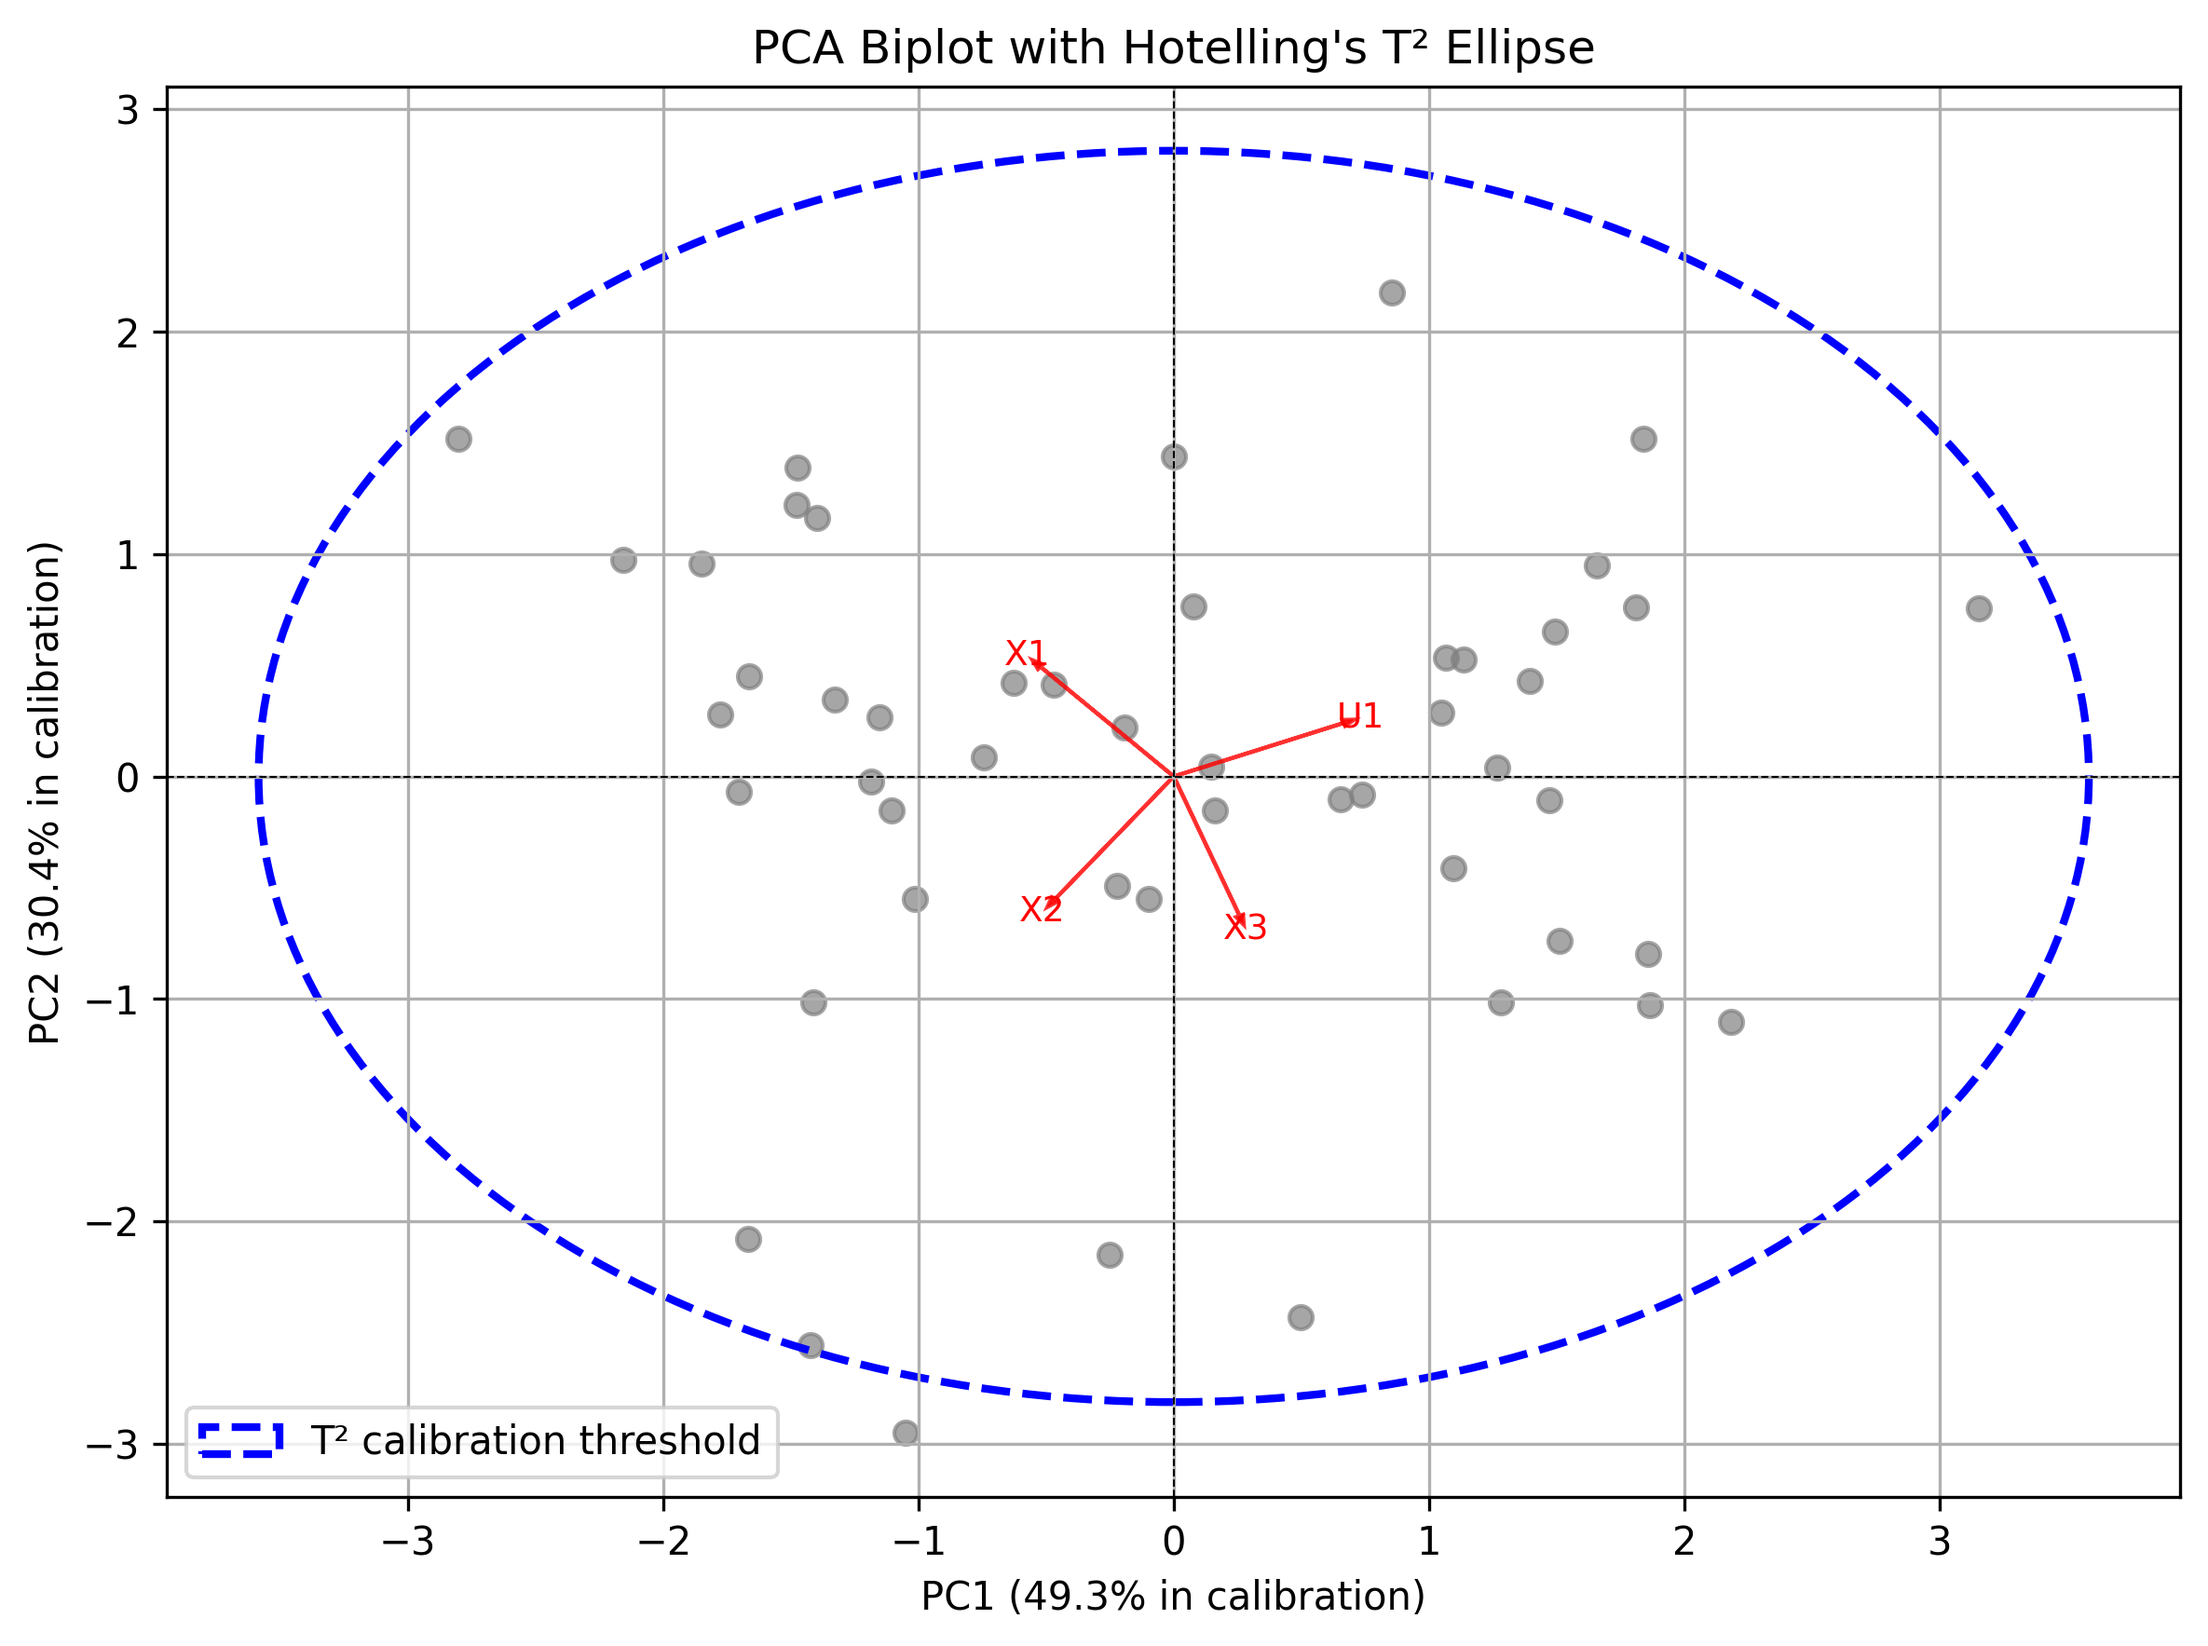
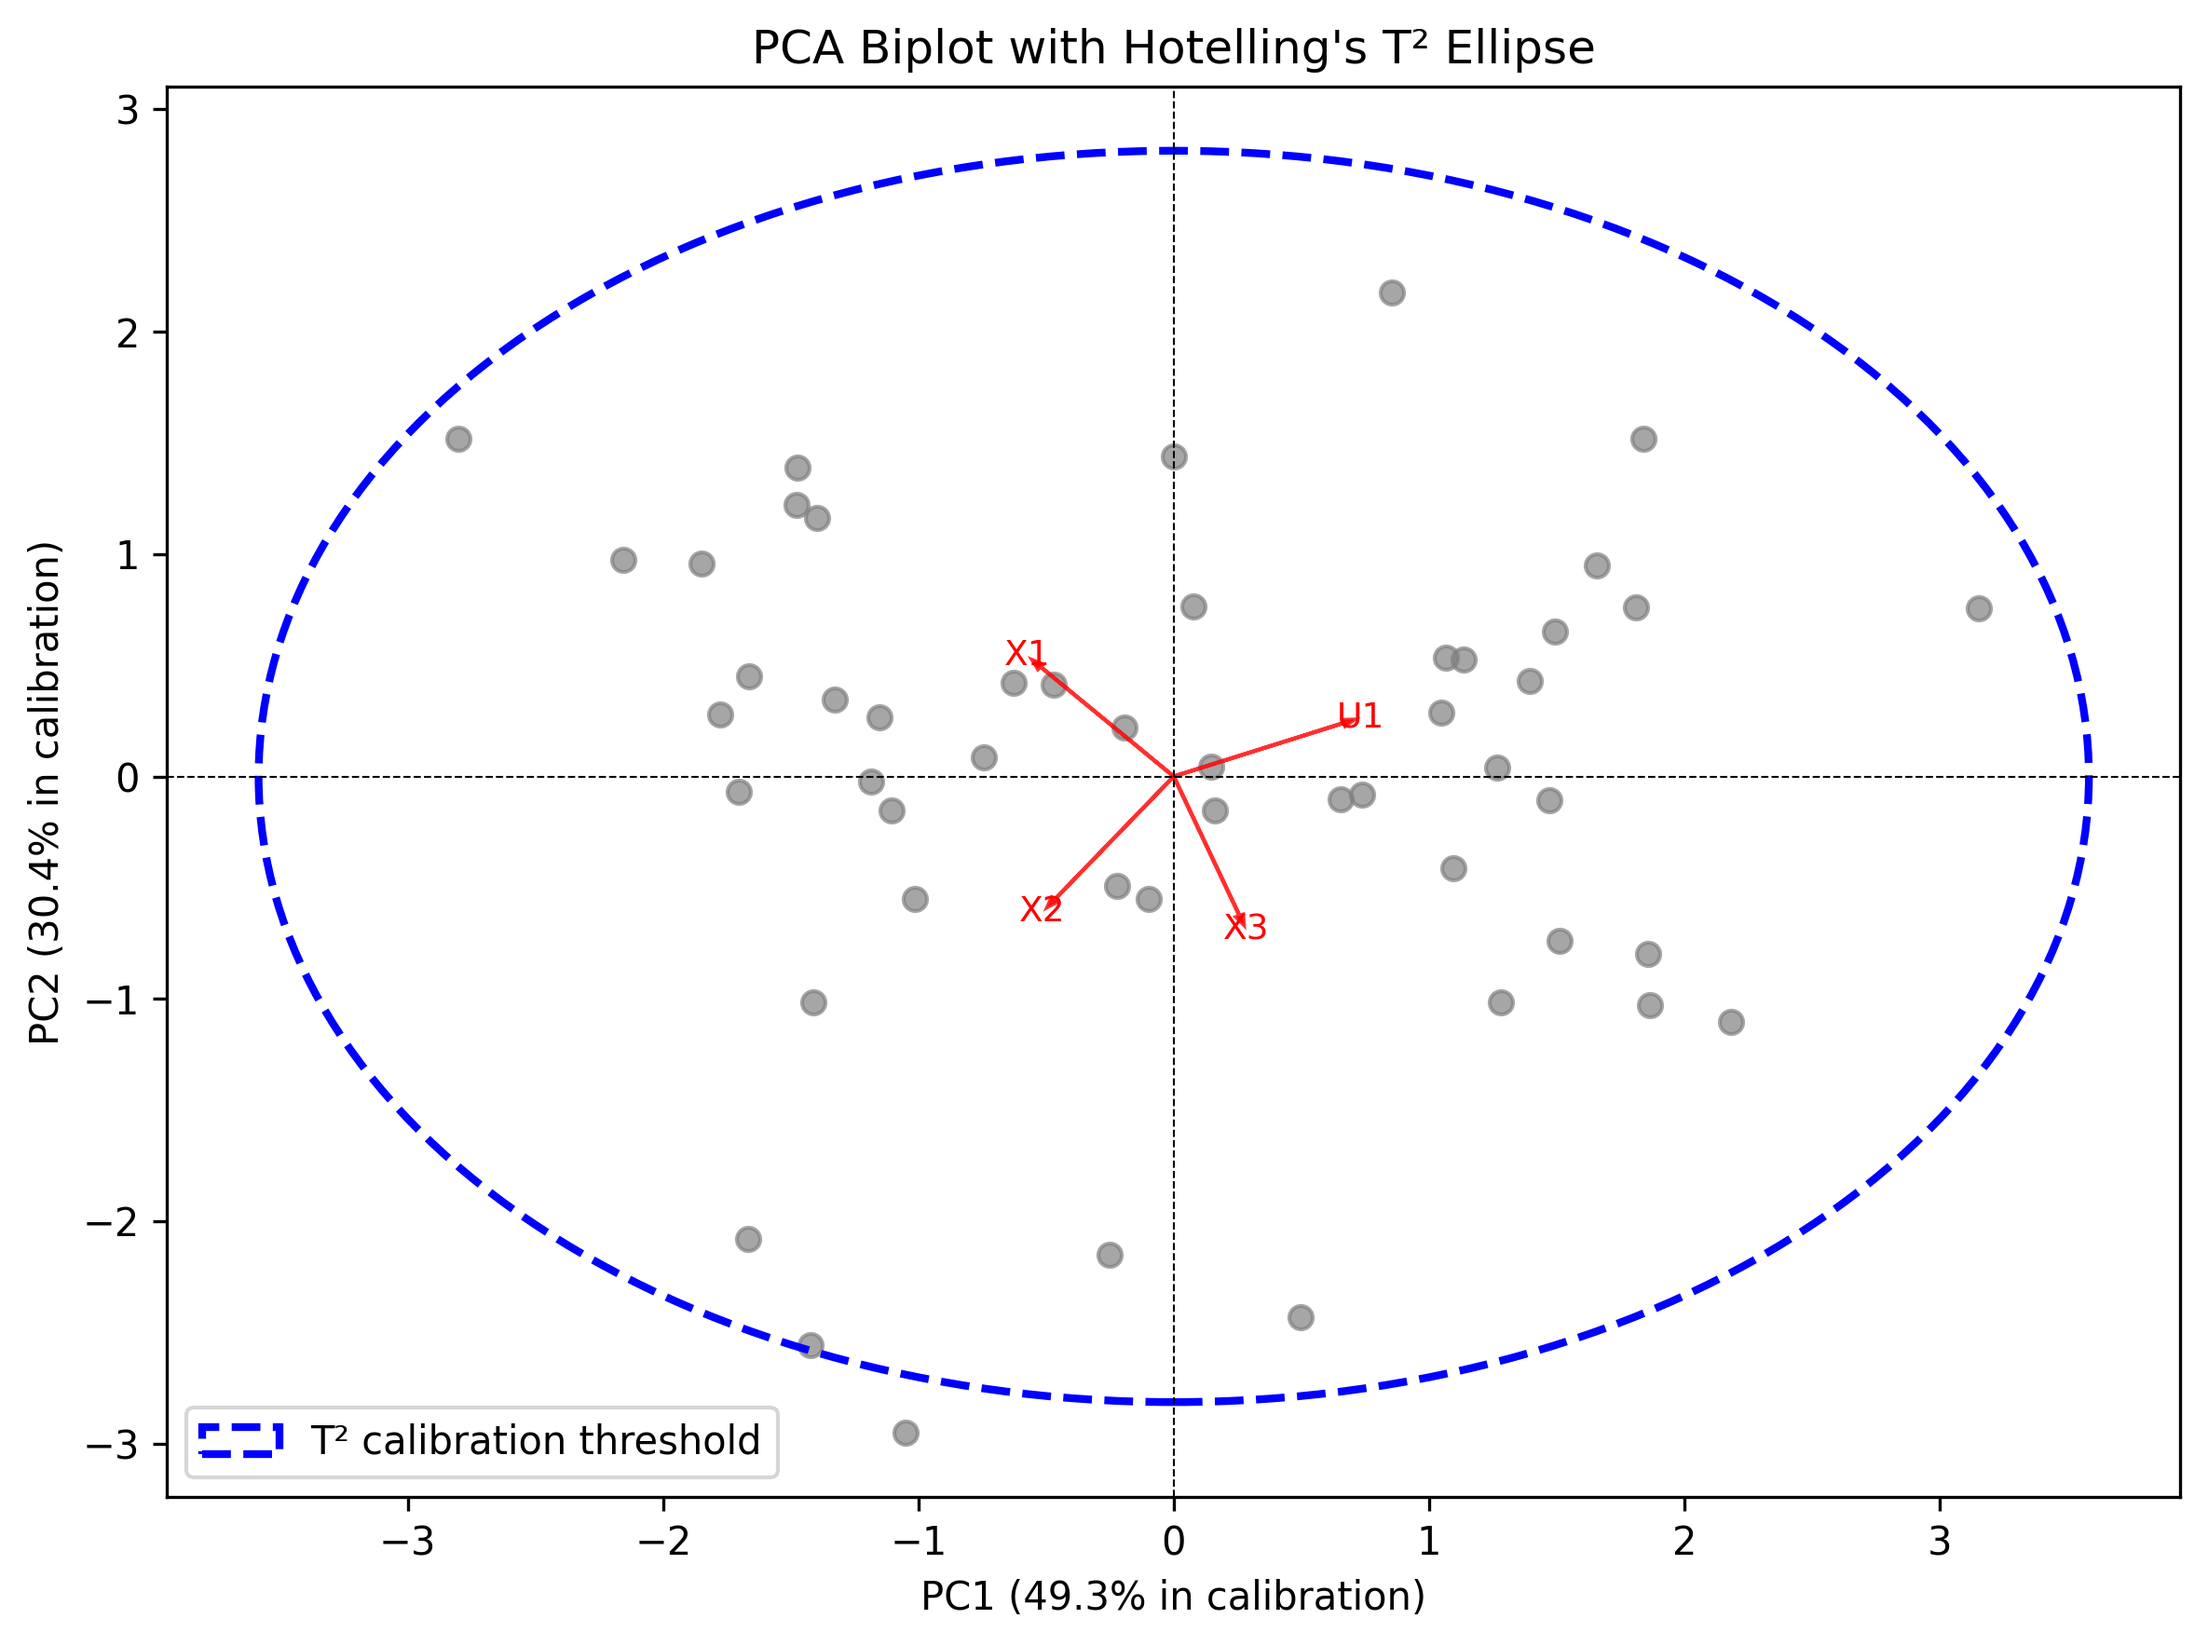
removed grids

diff --git a/examples/PLSR_soft_sensor_example.py b/examples/PLSR_soft_sensor_example.py
@@ -512,8 +512,6 @@ calibration_T2, calibration_Q = compute_PLS_t2_q(data = X_calibration_autoscaled
 #print("calibration_Q : ", calibration_Q)
 
 n = X_calibration_autoscaled.shape[0]
-m_of_all_columns = X_calibration_autoscaled.shape[1]
-T_calibration_all_latent_variables, U_calibration_all_latent_variables, P_calibration_all_latent_variables, Q_calibration_all_latent_variables, W_calibration_all_latent_variables, B_calibration_all_latent_variables, W_star_calibration_all_latent_variables = pls_nipals(X_calibration_autoscaled, y_calibration_autoscaled, n_components=m_of_all_columns)
 
 calibration_T2_thresh = hotelling_t2_threshold(n_samples = n, n_components = n_components)
 
@@ -587,7 +585,7 @@ def q_residual_threshold_PLS(X, T, P, alpha=0.95):
 
 
 
-#calibration_Q_thresh = q_residual_threshold_PLS(scores_T = T_calibration_all_latent_variables, n_components = n_components) # we give all scores T inputs (the threshold needs unused latent variable scores) but we give the selected components i.e. first 2
+
 calibration_Q_thresh = q_residual_threshold_PLS(X_calibration_autoscaled, T_calibration, P_calibration, alpha=0.95)
 
 
@@ -620,7 +618,7 @@ def plot_t2_q(T2, Q, threshold_T2=None, threshold_Q=None, name=""):
     axs[1].set_title("Q Residuals (SPE)")
     axs[1].set_xlabel("Sample Index")
     axs[1].set_ylabel("Q")
-    axs[1].grid(True)
+    axs[1].grid(False)
 
     plt.tight_layout()
     save_fig(name)

diff --git a/apc/calibration/PCA_eigen.py b/apc/calibration/PCA_eigen.py
@@ -119,6 +119,7 @@ def plot_column_distributions_with_stats(matrix, bins=10, name=""):
         ax.legend()
 
     plt.tight_layout()
+    plt.grid(False)
     save_fig(name)
     plt.show()
     
@@ -238,9 +239,9 @@ def pca_biplot_with_t2(scores, loadings, explained_variance_ratio, T2_thresh,
     plt.axhline(0, color='black', linewidth=0.5, linestyle='--')
     plt.axvline(0, color='black', linewidth=0.5, linestyle='--')
     plt.title("PCA Biplot with Hotelling's T² Ellipse")
-    plt.grid(True)
     plt.legend()
     plt.tight_layout()
+    plt.grid(False)
     save_fig(message)
     plt.show()
     
@@ -292,14 +293,14 @@ def plot_t2_q(T2, Q, threshold_T2=None, threshold_Q=None, name=""):
     axs[0].set_title("Hotelling's T²")
     axs[0].set_xlabel("Sample Index")
     axs[0].set_ylabel("T²")
-    axs[0].grid(True)
+    axs[0].grid(False)
 
     axs[1].scatter(range(len(Q)), Q, color='darkgreen')
     axs[1].axhline(threshold_Q, color='red', linestyle='--', label='Threshold' if threshold_Q else None)
     axs[1].set_title("Q Residuals (SPE)")
     axs[1].set_xlabel("Sample Index")
     axs[1].set_ylabel("Q")
-    axs[1].grid(True)
+    axs[1].grid(False)
 
     plt.tight_layout()
     save_fig(name)

diff --git a/examples/subspace_system_identification_example.py b/examples/subspace_system_identification_example.py
@@ -104,7 +104,7 @@ y_id_model_dev = simulate_linear(A_id, B_id, C_id, D_id, u_c)
 y_id_model = y_id_model_dev + y_mean
 
 # ----------------------------
-# FIT METRIC
+# FIT R^2 METRIC
 # ----------------------------
 fit = 100 * (1 - np.linalg.norm(y - y_id_model) / np.linalg.norm(y - np.mean(y)))
 print(f"FIT: {fit:.2f}%")
@@ -134,7 +134,7 @@ plt.plot(t, y_id_model, '--', label="Identified model", linewidth=2)
 plt.title("True vs Identified System Output", fontsize=14)
 plt.ylabel("Output", fontsize=12)
 plt.legend()
-plt.grid()
+plt.grid(False)
 
 # ----------------------------
 # INPUT SIGNAL
@@ -146,7 +146,7 @@ plt.plot(t, u, label="Input (u)", linewidth=2)
 plt.xlabel("Time step", fontsize=12)
 plt.ylabel("Input", fontsize=12)
 plt.title("Input Signal", fontsize=14)
-plt.grid()
+plt.grid(False)
 
 plt.tight_layout()
 plt.show()
@@ -168,7 +168,7 @@ plt.title("Zoomed Output Comparison")
 plt.xlabel("Time step")
 plt.ylabel("Output")
 plt.legend()
-plt.grid()
+plt.grid(False)
 
 plt.show()
 

diff --git a/examples/steady_state_MPC_PCA_monitoring_example.py b/examples/steady_state_MPC_PCA_monitoring_example.py
@@ -197,13 +197,13 @@ plt.plot(t, x_history[:,1], '--', label="state 2")
 plt.plot(t, x_history[:,2], '--', label="state 3")
 plt.title("MPC states with noise and disturbance")
 plt.legend()
-plt.grid()
+plt.grid(False)
 
 # Inputs
 plt.subplot(2,1,2)
 plt.plot(t[:-1], u_history[:,0], label="control input")
 plt.title("MPC input signal")
-plt.grid()
+plt.grid(False)
 
 plt.tight_layout()
 save_fig("MPC_states_controls")
@@ -301,13 +301,12 @@ fig, ax = plt.subplots(1,2, figsize=(10,5))
 
 ax[0].bar(variables, p1)
 ax[0].set_title('Loading 1')
-ax[0].grid(True, alpha=0.3)
 
 ax[1].bar(variables, p2)
 ax[1].set_title('Loading 2')
-ax[1].grid(True, alpha=0.3)
 
 plt.tight_layout()
+plt.grid(False)
 plt.show()
 
 

diff --git a/examples/lmi_mpc_example.py b/examples/lmi_mpc_example.py
@@ -350,7 +350,7 @@ plt.plot(t, x_history[:,2], '--', label="state 3", linewidth=2)
 plt.title("LMI-based infinite horizon MPC input and states with added Gaussian noise", fontsize=14)
 plt.ylabel("Output", fontsize=12)
 plt.legend()
-plt.grid()
+plt.grid(False)
 
 # ----------------------------
 # INPUT SIGNAL
@@ -360,7 +360,7 @@ plt.plot(t[0:-1], u_history[:,0], label="MPC Input (u)", linewidth=2)
 plt.xlabel("Time step", fontsize=12)
 plt.ylabel("MPC Input", fontsize=12)
 plt.title("MPC Input Signal", fontsize=14)
-plt.grid()
+plt.grid(False)
 
 plt.tight_layout()
 plt.show()
